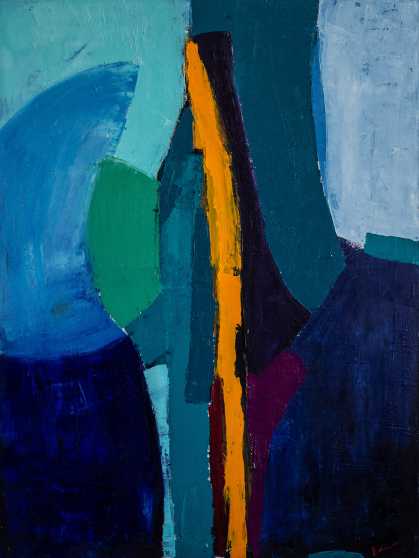
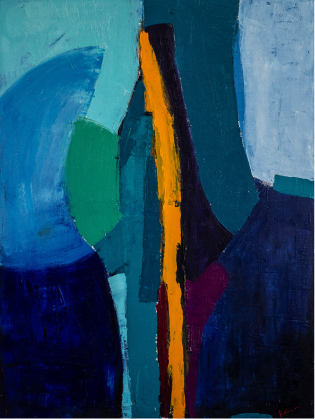
Img compressed, swiper bug fixes, photo added

diff --git a/css/style.css b/css/style.css
@@ -372,9 +372,9 @@ footer .copyright {
 
 footer .social {
     display: flex;
-    align-items: center;
+    align-items: flex-end;
     margin-left: auto;
-    margin-right: auto;
+    margin-right: 100px;
 }
 
 footer .social span {
@@ -403,12 +403,22 @@ footer .made-by:hover {
 
 /* Футер */
 
-
 .rahim-photo {
-    margin: 178px 0;
+    /* margin: 178px 0;
     grid-column: 1/5;
     width: 100%;
+    height: auto; */
+    width: 100%;
     height: auto;
+    margin: 178px 0;
+}
+
+.photo-1 {
+    grid-column: 1/3;
+}
+
+.photo-2 {
+    grid-column: 3/5;
 }
 
 #about {
@@ -598,6 +608,15 @@ footer .made-by:hover {
     .swiper-slide {
         /* margin-right: 48px !important; */
         /* width: 409px !important; */
+        background-position: 3% 5% !important;
+        background-size: 75% 100% !important;
+        background-repeat: no-repeat !important;
+        width: 420px !important;
+        height: 400px !important;
+    }
+
+    .swiper-container {
+        padding-bottom: 180px !important;
     }
 
     .swiper-pagination-bullet {
@@ -642,9 +661,17 @@ footer .made-by:hover {
     }
 
     .rahim-photo {
-        grid-column: 1/11;
+        margin-top: 112px;
         margin-left: 16px;
         margin-bottom: 0;
+    }
+
+    .photo-1 {
+        grid-column: 1/6;
+    }
+    
+    .photo-2 {
+        grid-column: 6/11;
     }
 
     #about {

diff --git a/ru_RU/about.html b/ru_RU/about.html
@@ -55,7 +55,8 @@
            </div>
         </div>
      </div>
-      <img src="../img/img_1.jpg" alt="Rahim El" class="rahim-photo">
+     <img src="../img/img_1.jpg" alt="Rahim El" class="rahim-photo photo-1">
+     <img src="../img/img_1_1.jpg" alt="Rahim El" class="rahim-photo photo-2">
       <section id="about">
          <h2>Обо мне</h2>
          <div class="space-24"></div>

diff --git a/about.html b/about.html
@@ -54,7 +54,8 @@
             </div>
          </div>
       </div>
-      <img src="../img/img_1.jpg" alt="Rahim El" class="rahim-photo">
+      <img src="img/img_1.jpg" alt="Rahim El" class="rahim-photo photo-1">
+      <img src="img/img_1_1.jpg" alt="Rahim El" class="rahim-photo photo-2">
       <section id="about">
          <h2>About me</h2>
          <div class="space-24"></div>

diff --git a/index.html b/index.html
@@ -230,7 +230,7 @@
 <script>
    var swiper = new Swiper('.swiper-container', {
       //  effect: 'coverflow',
-       spaceBetween: 0,
+       spaceBetween: 5,
        grabCursor: true,
        mousewheel: true,
        centeredSlides: false,
